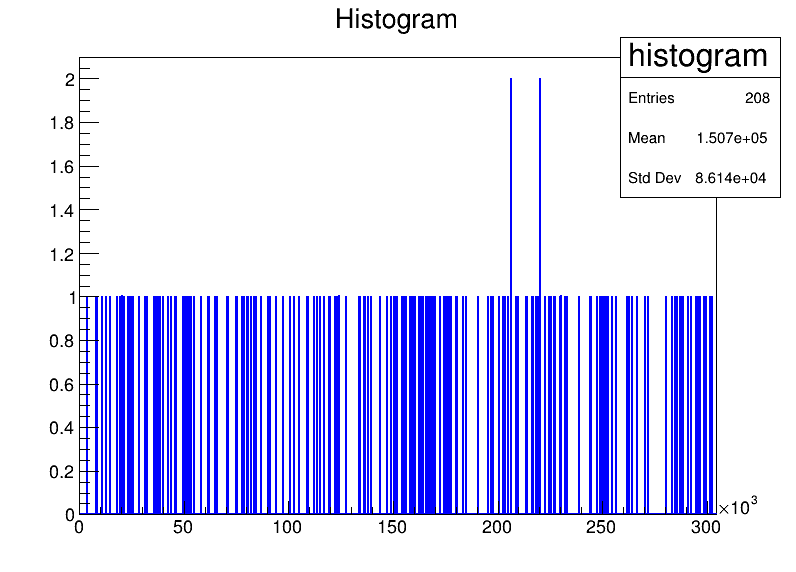
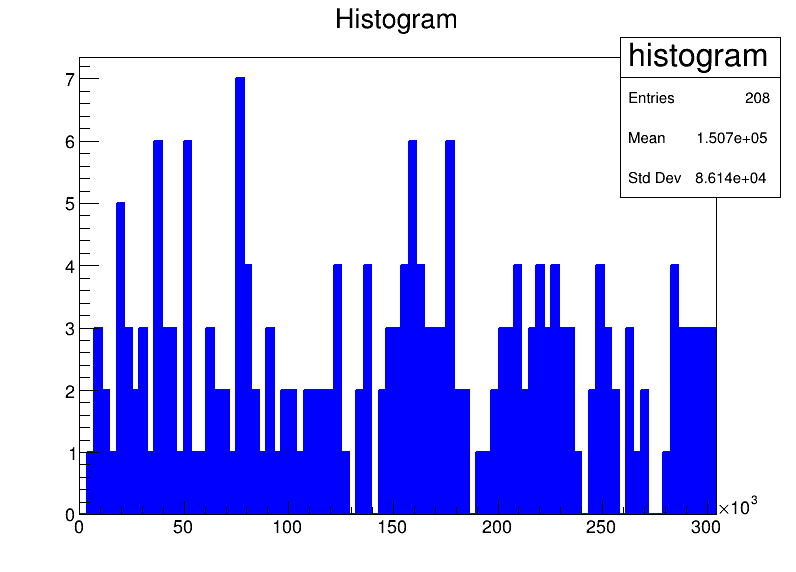
addition of uncertainties in the x axis of the ratevsTempi plot

Changed region(s): [[0.0603, 0.1486, 0.9045, 0.9213], [0.0603, 0.208, 0.1206, 0.2972]]

diff --git a/analisi.cpp b/analisi.cpp
@@ -4,7 +4,9 @@
 #include <cmath>
 #include "TH1F.h"
 #include "TCanvas.h"
+#include "TStyle.h"
 #include "TGraphErrors.h"
+#include <TPaveStats.h>
 
 std::vector<double> loadFiles(const char* filePath){
     // Vettore per memorizzare i tempi
@@ -36,29 +38,64 @@ void createErrorGraph(const TH1F* histogram, const char* outputFileName, const c
     std::vector<double> timesVec;
     std::vector<double> rates;
     std::vector<double> errors;
+    std::vector<double> timeErrors;
+
 
     for (int i = 1; i <= histogram->GetNbinsX(); ++i) {
         double binContent = histogram->GetBinContent(i);
         double binWidth = histogram->GetBinWidth(i);
         double rate = binContent / binWidth;
         double error = std::sqrt(binContent) / binWidth;
+        double err_x = binWidth / std::sqrt(12.0);
 
         timesVec.push_back(histogram->GetBinCenter(i));
         rates.push_back(rate);
         errors.push_back(error);
+        timeErrors.push_back(err_x);
+
     }
 
     // Crea il grafico a errori
-    TGraphErrors graphErrors(timesVec.size(), &timesVec[0], &rates[0], 0, &errors[0]);
+    TGraphErrors graphErrors(timesVec.size(), &timesVec[0], &rates[0], &timeErrors[0], &errors[0]);
 
     // Imposta gli stili del grafico a errori
     graphErrors.SetMarkerStyle(20);
-    graphErrors.SetMarkerSize(1.5);
+    graphErrors.SetMarkerSize(0.01);
     graphErrors.SetTitle("Rate vs Tempi;Tempi [s];Rate [Hz]");
+    // Calcola la media dei valori sull'asse y del grafico
+    double meanY = 0.0;
+    double err_meanY=0.0;
+    for (size_t i = 0; i < rates.size(); ++i) {
+        meanY += rates[i];
+        err_meanY += errors[i];
+    }
+    meanY /= rates.size();
+    err_meanY /= errors.size();
 
     // Crea un canvas per il grafico a errori
     TCanvas canvasError("canvasError", "Grafico Rate vs Tempi", 800, 600);
+    canvasError.cd();  // Sposta il contesto all'interno del canvas
+
     graphErrors.Draw("AP");
+    // Aggiungi una linea tratteggiata corrispondente al rate medio
+    TLine* meanLine = new TLine(graphErrors.GetXaxis()->GetXmin(), meanY, graphErrors.GetXaxis()->GetXmax(), meanY);
+    meanLine->SetLineStyle(2);  // Imposta la linea come tratteggiata
+    meanLine->SetLineColor(kRed);  // Imposta il colore della linea
+    meanLine->Draw("same");  // Disegna la linea sullo stesso grafico
+
+
+    // Aggiungi il box statistico
+    TPaveStats* stats = new TPaveStats(0.7, 0.8, 0.9, 0.9, "NDC");
+    stats->SetName("stats");
+    stats->SetBorderSize(1);
+    stats->SetFillColor(0);
+    stats->SetTextAlign(12);
+    stats->SetTextSize(0.025);
+    stats->AddText(Form(("Rate medio [Hz]:")));
+    stats->AddText(Form("%.2f $\\pm$ %.2f$", meanY, err_meanY));
+    canvasError.Modified();  // Necessario per rendere effettive le modifiche al canvas
+    canvasError.Update();    // Aggiorna il canvas
+    stats->Draw("same");     // Disegna il box statistico sopra il grafico
 
     // Salva il canvas
     canvasError.SaveAs(Form("/home/chris/SciamiEstesi/23_11_2023/plots/channel_%s/%s_Rate.png", channel,outputFileName));
@@ -80,26 +117,22 @@ void plot_histogram2D(const TH1F* histogram, const char* outputFileName, const c
         double rate = binContent / binWidth;
 
         histogram2D->Fill(histogram->GetBinCenter(i), rate);
-
         times2D.push_back(histogram->GetBinCenter(i));
         rates2D.push_back(rate);
-  
-
     }
+
     TCanvas *canvas2D = new TCanvas("canvas2D", "Istogramma 2D", 800, 600);
     histogram2D->Draw("colz");
-
-
-
-    // Posiziona il box statistics in modo che non copra la scala dell'asse Z
+    // Posiziona il box statistics in modo che non copra la scala dell'asse Z per l'istogramma 2D
     gPad->Update();
-    TPaveStats *stats = (TPaveStats*)histogram2D->FindObject("stats");
-    stats->SetX1NDC(0.68);
-    stats->SetX2NDC(0.88);
-    stats->SetY1NDC(0.78);
-    stats->SetY2NDC(0.98);
+    TPaveStats *stats2D = (TPaveStats*)histogram2D->FindObject("stats");
+    stats2D->SetX1NDC(0.68);
+    stats2D->SetX2NDC(0.88);
+    stats2D->SetY1NDC(0.78);
+    stats2D->SetY2NDC(0.98);
 
     canvas2D->SaveAs(Form("/home/chris/SciamiEstesi/23_11_2023/plots/channel_%s/%s_2D.png",channel, outputFileName));
+
 
 
 }
@@ -142,7 +175,7 @@ void plot_histogram(const char* filePath, const char* outputFileName, const char
     }
 
     double lastValue = time.back();
-    const double binWidth = 10;
+    const double binWidth = 3600;
     const int numBins = static_cast<int>(std::ceil(lastValue / binWidth));
 
     TH1F histogram("histogram", "Histogram", numBins, 0., lastValue);
